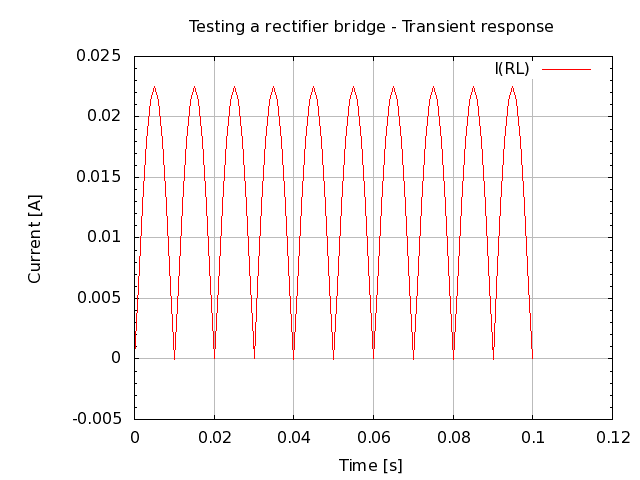
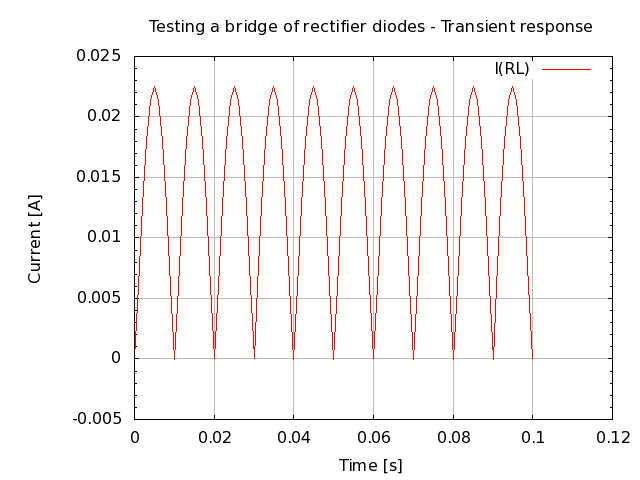
Correction of title.

Changed region(s): [[0.2188, 0.0312, 0.9375, 0.0938]]

diff --git a/lc_test/README.md b/lc_test/README.md
@@ -1,4 +1,4 @@
-# Testing a rectifier bridge.
+# Testing a bridge of rectifier diodes.
 
 Transient response.
 
